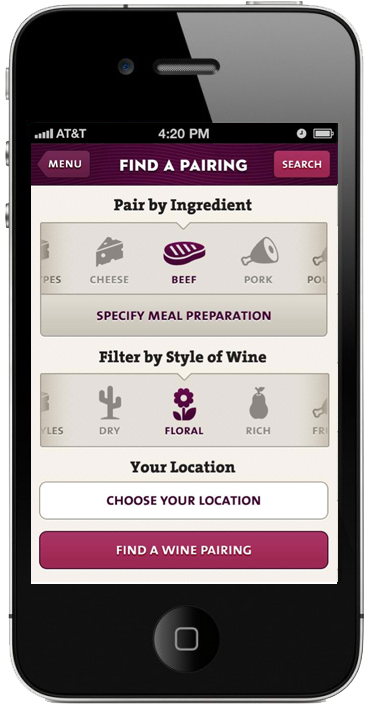
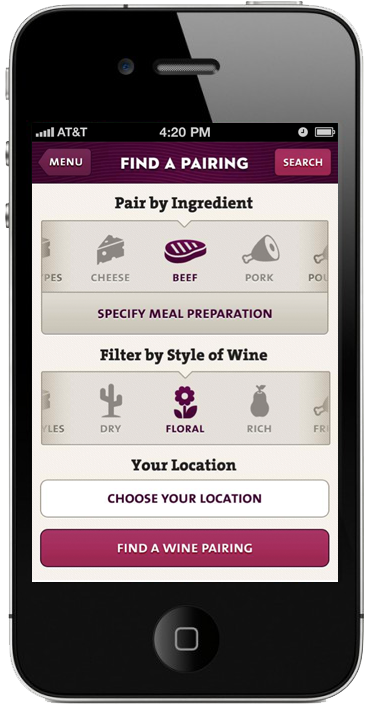
Fixed style bugs on app page, added email footer links, updated mobile app images.

Changed region(s): [[0.0598, 0.1551, 0.9266, 0.8068]]

diff --git a/public/stylesheets/all.css b/public/stylesheets/all.css
@@ -142,7 +142,7 @@ a.button:hover {
 .page-content-wide {
 	float: left;
 	width: 79%;
-	margin: 0 0 30px 30px;
+	margin: 0 0 30px 20px;
 	position: relative;
 	left: -80px;
 }
@@ -222,7 +222,7 @@ a img { border: none; }
 .selected {
 	border-top: 1px solid #3C0F2E;
 	border-bottom: 1px solid #3C0F2E;
-	width: 150px;
+	width: 160px;
 }
 
 .home-navigation .nav-padding { 
@@ -488,10 +488,12 @@ p.right { text-align: right; }
 #callout-1 {
 	display: block;
 	position: relative;
-	top: -200px;
+	background-image: url('/images/app-summary-3.png');
+	width: 200px;
+	height: 100px;
 }
 
-.callout-text {
+.callout-text, .callout-text-right {
 	color: #F8F4EF;
 	position: relative;
 	padding: 10px;
@@ -500,46 +502,50 @@ p.right { text-align: right; }
 }
 
 .callout-text#one {
-	top: -300px;
 	padding-top: 7px;
 }
 
 #callout-2 {
 	display: block;
 	position: relative;
-	top: -125px;
-}
-
-.callout-text#two {
-	top: -220px;
-	padding-left: 35px;
+	background-image: url('/images/app-summary-2.png');
+	width: 200px;
+	height: 100px;
+	top: -75px;
 }
 
 #callout-3 {
 	display: block;
 	position: relative;
-	top: -75px;
+	background-image: url('/images/app-summary-2.png');
+	width: 200px;
+	height: 100px;
 }
 
 #callout-1, #callout-2, #callout-3, #one, #two, #three {
 	cursor: pointer;
 }
 
-.callout-text#three {
-	top: -175px;
+.callout-text-right {
 	padding-left: 35px;
+}
+
+.callout-text-right#two {
+	padding-top: 4px;
 }
 
 .callout-div-right {
 	display: inline-block;
 	position: relative;
 	right: 20px;
+	top: -180px;
 }
 
 .callout-div-left {
 	display: inline-block;
 	position: relative;
 	left: 20px;
+	top: -250px;
 }
 
 h1.app {
